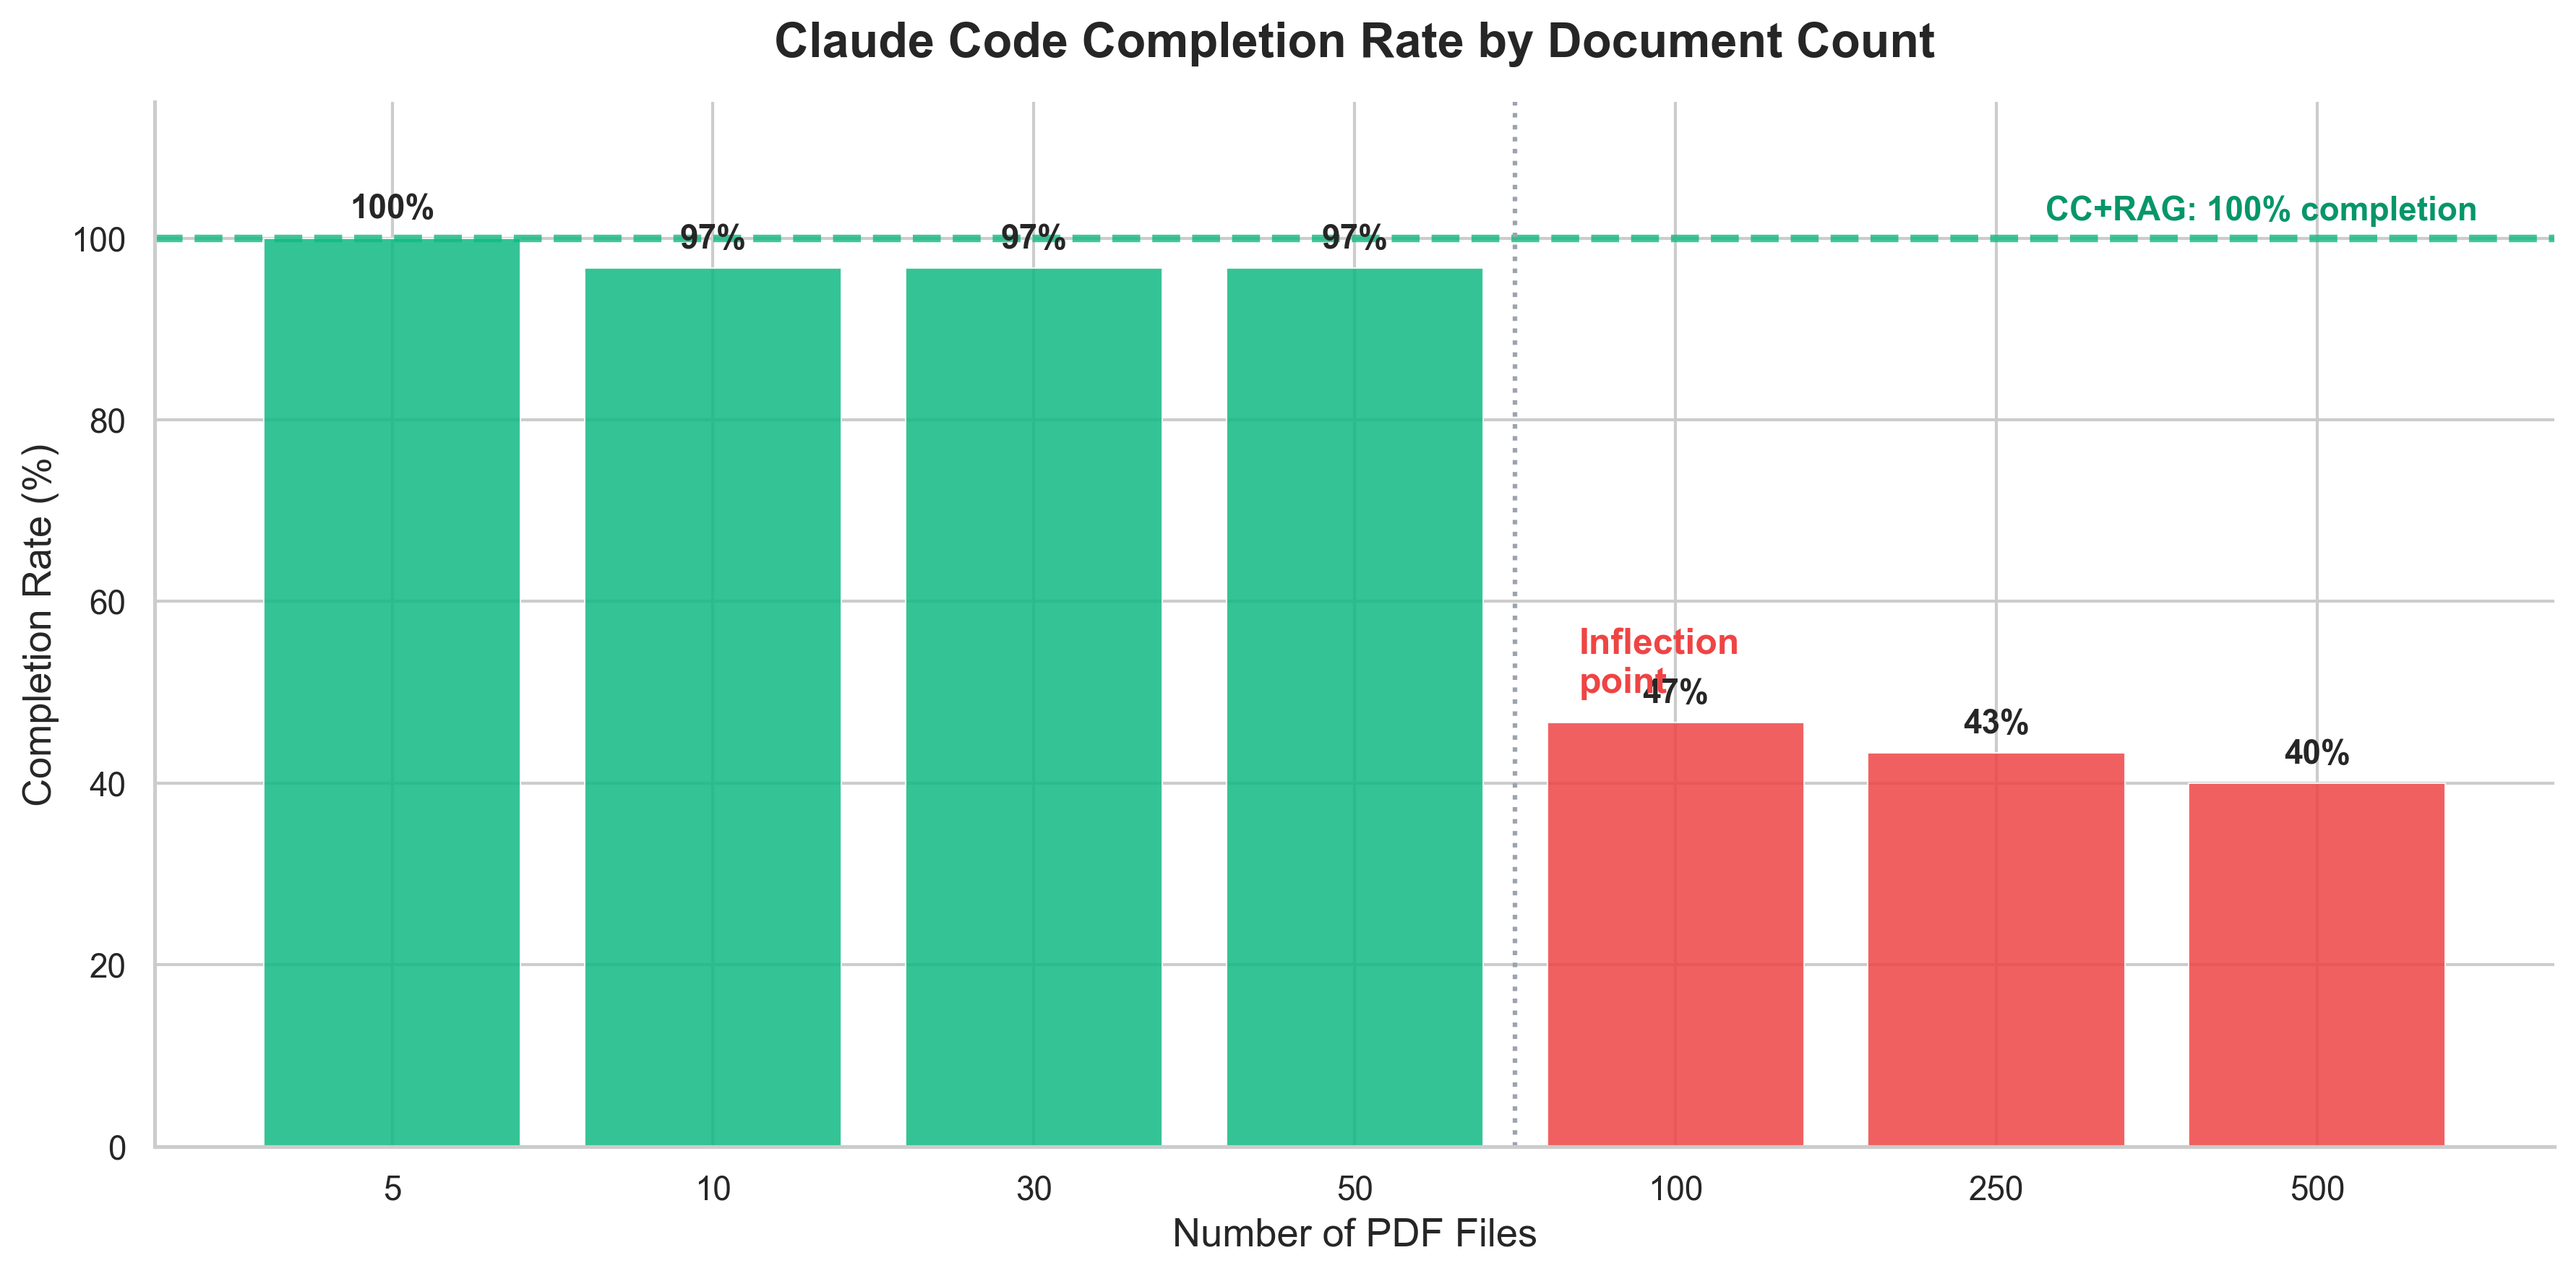
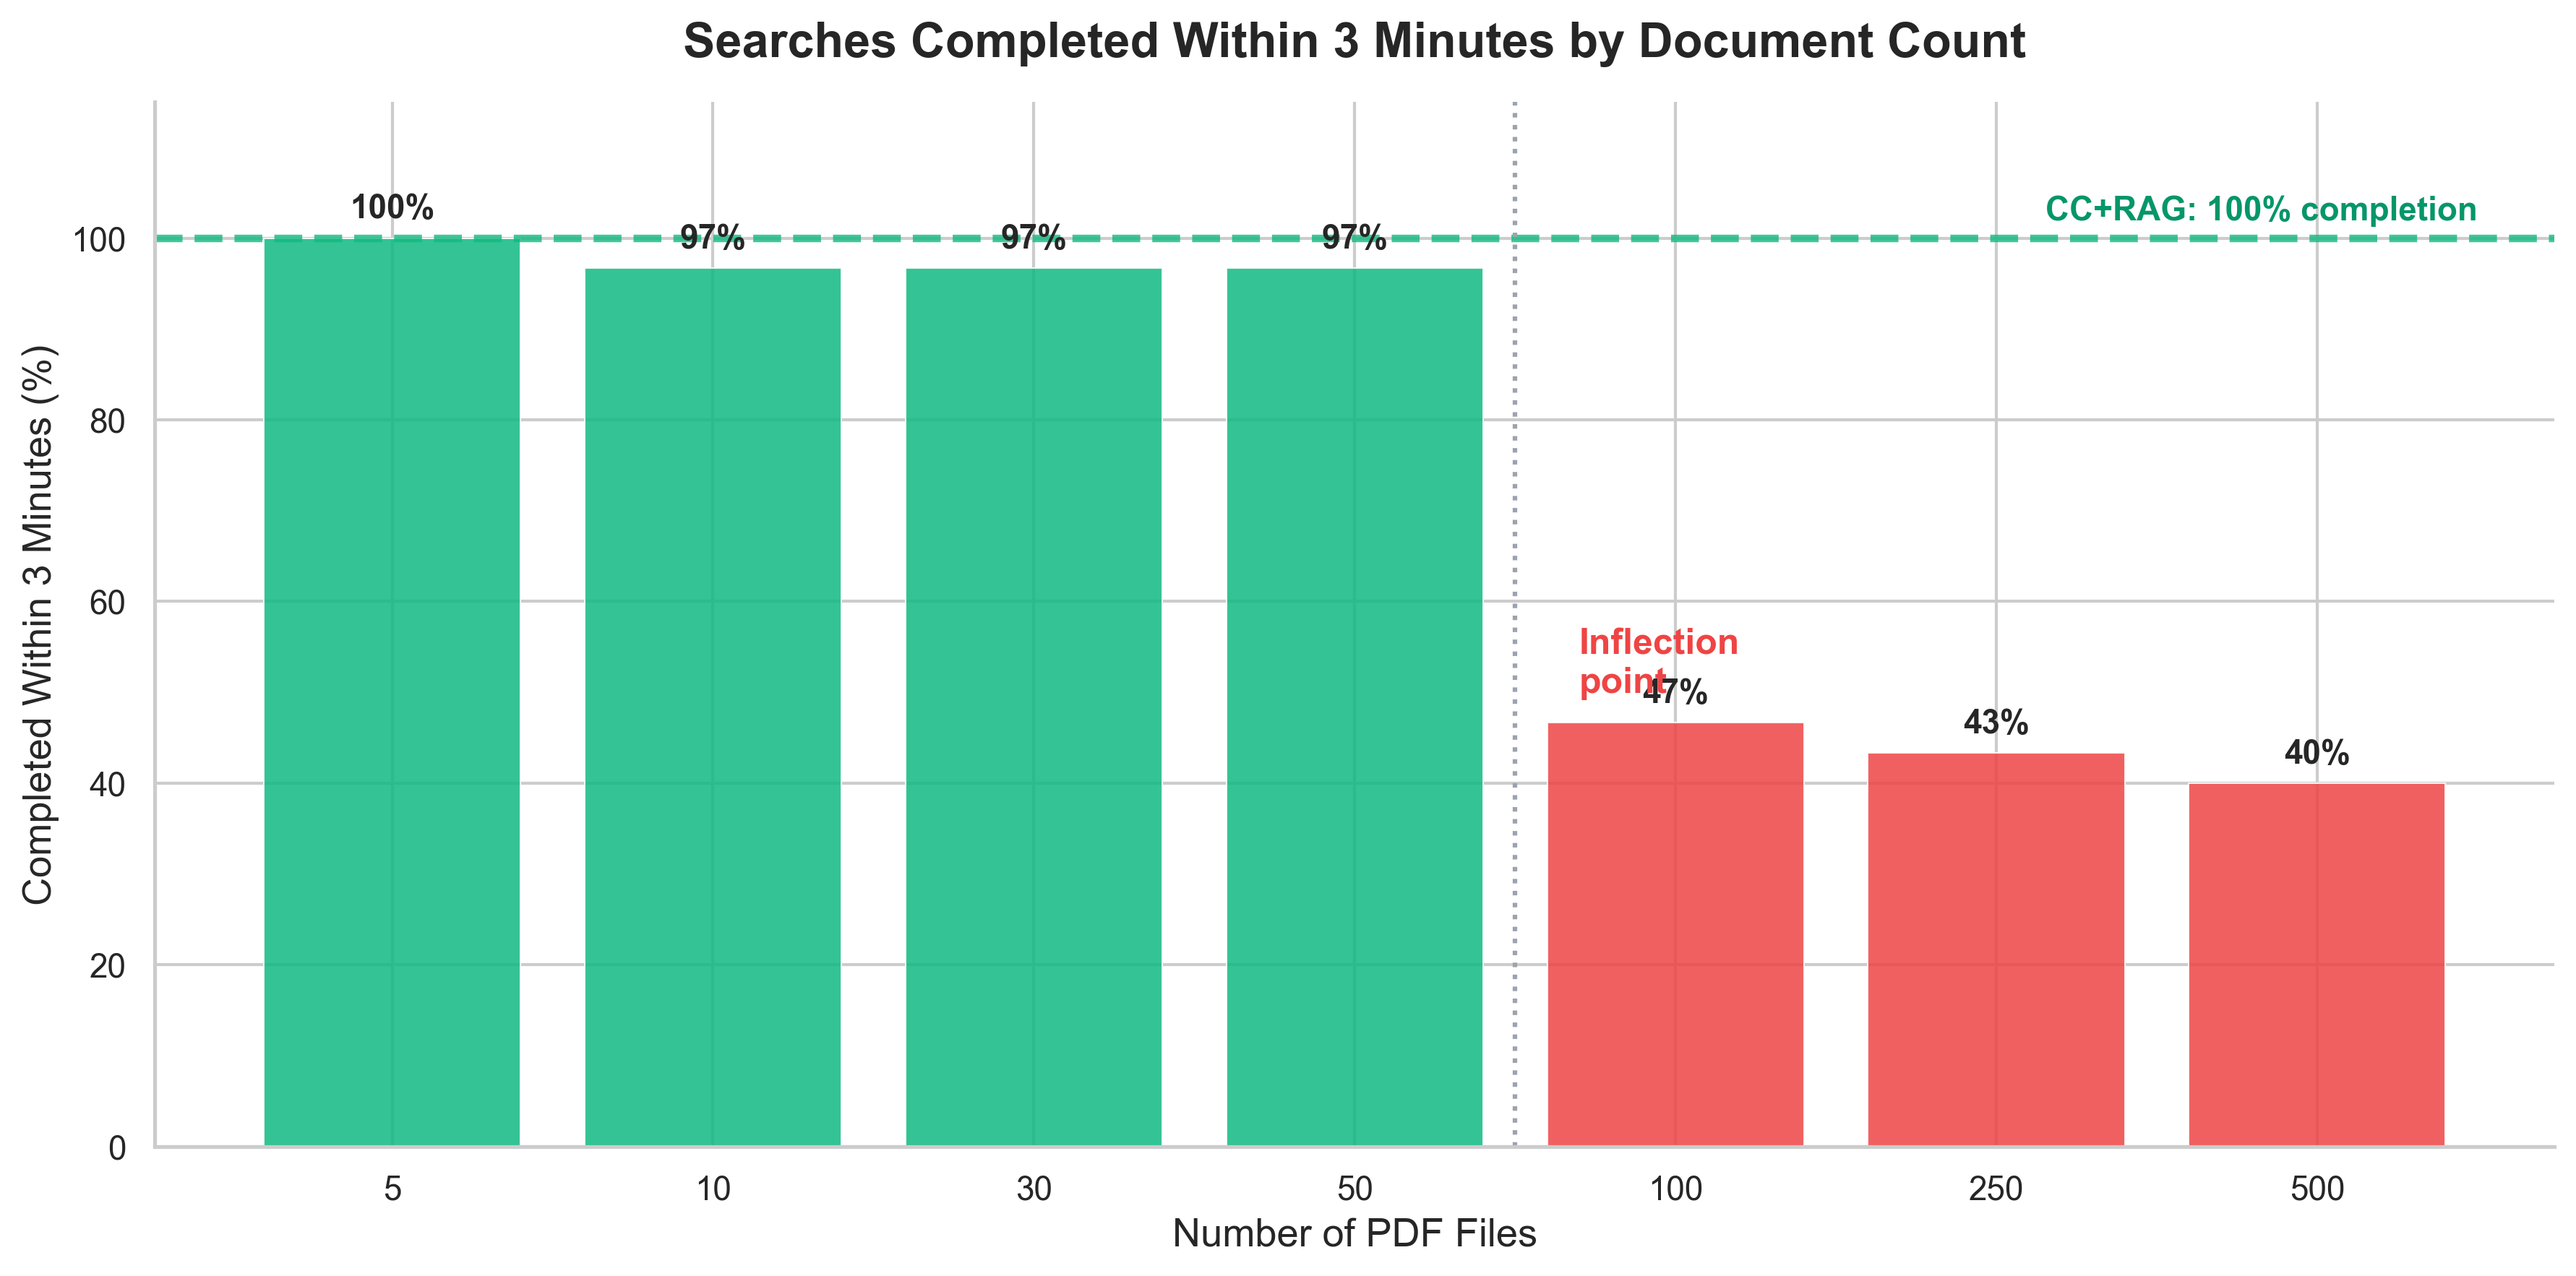
fix: clarify all charts — "completed within 3 minutes" not bare "completion rate"
- Chart titles, axis labels, legends all now specify the 3-minute benchmark window
- "Timeout" renamed to "Exceeded 3 min limit" throughout
- Scorecard columns: "Done in 3 min" / "Exceeded 3 min"
- README description updated to match

Changed region(s): [[0.2492, 0.0, 0.7786, 0.0623], [0.0, 0.3426, 0.0311, 0.6852], [0.0, 0.2803, 0.0311, 0.3114]]

diff --git a/report_pdf_v2.py b/report_pdf_v2.py
@@ -254,8 +254,8 @@ def chart_completion_rate(cc_tiers, rag_stats, charts_dir, dpi=300):
     ax.set_xticks(range(len(tiers)))
     ax.set_xticklabels([f"{t:,}" for t in tiers])
     ax.set_xlabel("Number of PDF Files", fontsize=13)
-    ax.set_ylabel("Completion Rate (%)", fontsize=13)
-    ax.set_title("Claude Code Completion Rate by Document Count", fontsize=16, fontweight="bold", pad=15)
+    ax.set_ylabel("Completed Within 3 Minutes (%)", fontsize=13)
+    ax.set_title("Searches Completed Within 3 Minutes by Document Count", fontsize=16, fontweight="bold", pad=15)
     ax.set_ylim(0, 115)
 
     fig.tight_layout()
@@ -409,7 +409,7 @@ def chart_worst_case(cc_tiers, rag_stats, charts_dir, dpi=300):
                 ha='right', fontsize=12, color='#059669', fontweight='bold')
 
     ax.axhline(y=180, color=LIGHT_GRAY, linestyle=':', linewidth=1, alpha=0.6)
-    ax.text(tiers[0], 183, "180s timeout", fontsize=9, color=GRAY)
+    ax.text(tiers[0], 183, "3-minute benchmark window", fontsize=9, color=GRAY)
 
     ax.set_xlabel("Number of PDF Files", fontsize=13)
     ax.set_ylabel("Response Time (seconds)", fontsize=13)
@@ -430,11 +430,11 @@ def chart_head_to_head(cc_500, rag_stats, charts_dir, dpi=300):
     fig, axes = plt.subplots(1, 4, figsize=(18, 5))
 
     metrics = [
-        ("Completion\nRate", cc_500["completion_rate"] * 100, 100, "%"),
+        ("Done in\n3 Minutes", cc_500["completion_rate"] * 100, 100, "%"),
         ("Accuracy on\nFindable Qs", cc_500["findable_accuracy"] * 100,
          rag_stats["findable_accuracy"] * 100, "%"),
         ("Avg Response\nTime", cc_500["avg_time"], rag_stats["avg_time"], "s"),
-        ("Timeout\nRate", cc_500["timeout_rate"] * 100, 0, "%"),
+        ("Exceeded\n3 Min Limit", cc_500["timeout_rate"] * 100, 0, "%"),
     ]
 
     for ax, (label, cc_val, rag_val, unit) in zip(axes, metrics):
@@ -478,8 +478,8 @@ def chart_headline(cc_500, rag_stats, charts_dir, dpi=300):
          f"{cc_500['avg_time']:.0f}s vs {rag_stats['avg_time']:.0f}s\nper question", RAG_COLOR),
         (f"{acc_rag:.0f}%", "RAG Accuracy",
          f"vs {acc_cc:.0f}% CC-only\non findable questions", BRAND),
-        (f"{cc_500['timeout_rate']*100:.0f}%", "CC Timeout Rate",
-         f"at 500 PDFs\nRAG: 0% timeouts", CC_COLOR),
+        (f"{cc_500['timeout_rate']*100:.0f}%", "Exceeded 3 Min Limit",
+         f"at 500 PDFs (benchmark cutoff)\nRAG: 0%", CC_COLOR),
         ("100%", "RAG Completion",
          f"every query answered\nwithin {rag_stats['avg_time']:.0f}s avg", PURPLE),
     ]
@@ -530,7 +530,7 @@ def chart_scorecard(cc_tiers, rag_stats, charts_dir, dpi=300):
             f"0%",
         ])
 
-    col_labels = ["PDFs", "Completion", "Accuracy", "Avg Time", "P90", "Cost/Q", "Timeout"]
+    col_labels = ["PDFs", "Done in 3 min", "Accuracy", "Avg Time", "P90", "Cost/Q", "Exceeded 3 min"]
 
     n_rows = len(table_rows)
     n_cols = len(col_labels)
@@ -557,7 +557,7 @@ def chart_scorecard(cc_tiers, rag_stats, charts_dir, dpi=300):
             elif row_idx % 2 == 0:
                 tbl[row_idx, col_idx].set_facecolor("#FEF2F2")  # Light red
 
-    ax.set_title("Full Benchmark Scorecard (Claude Sonnet 4.6, 180s timeout)",
+    ax.set_title("Full Benchmark Scorecard (Claude Sonnet 4.6, 3-minute benchmark window)",
                  fontweight="bold", fontsize=14, pad=12)
     fig.tight_layout()
     save_chart(fig, charts_dir / "08_scorecard.png", dpi)
@@ -597,7 +597,7 @@ def chart_behavior_breakdown(cc_tiers, charts_dir, dpi=300):
     p3 = ax.bar(x, gave_up, w, bottom=bottom2, label="Gave up / Wrong", color="#F97316", alpha=0.85)
 
     bottom3 = [b + g for b, g in zip(bottom2, gave_up)]
-    p4 = ax.bar(x, timeout, w, bottom=bottom3, label="Timeout", color=CC_COLOR, alpha=0.85)
+    p4 = ax.bar(x, timeout, w, bottom=bottom3, label="Exceeded 3 min limit", color=CC_COLOR, alpha=0.85)
 
     ax.set_xticks(x)
     ax.set_xticklabels([f"{t:,}" for t in tiers])

diff --git a/README.md b/README.md
@@ -42,7 +42,7 @@ At 5 files, Claude Code answers in 35 seconds. By 100 files, average wait time n
 
 | Chart | Description |
 |-------|-------------|
-| ![Completion rate](results_pdf/charts_v2/01_completion_rate.png) | Completion rate drops from 100% to 40% as documents scale |
+| ![Completion rate](results_pdf/charts_v2/01_completion_rate.png) | Searches completed within 3 minutes drops from 100% to 40% as documents scale |
 | ![Time comparison](results_pdf/charts_v2/03_time_comparison.png) | Response time: Claude Code alone vs with RAG plugin |
 | ![Worst case times](results_pdf/charts_v2/05_worst_case_times.png) | Average, P75, P90, and max response times by tier |
 | ![Behavior breakdown](results_pdf/charts_v2/09_behavior_breakdown.png) | What actually happens to each query at each tier |
